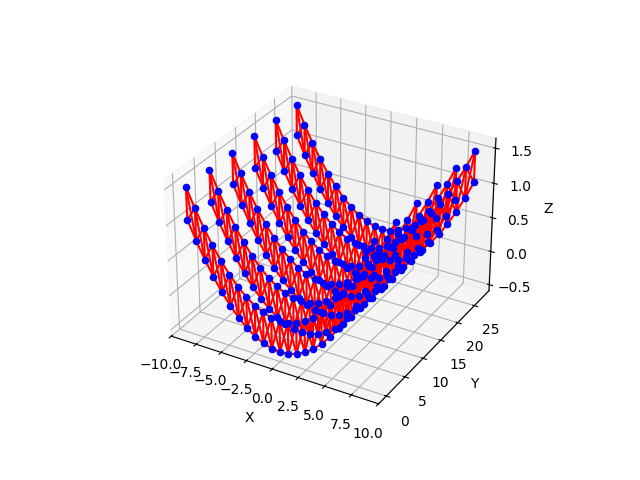
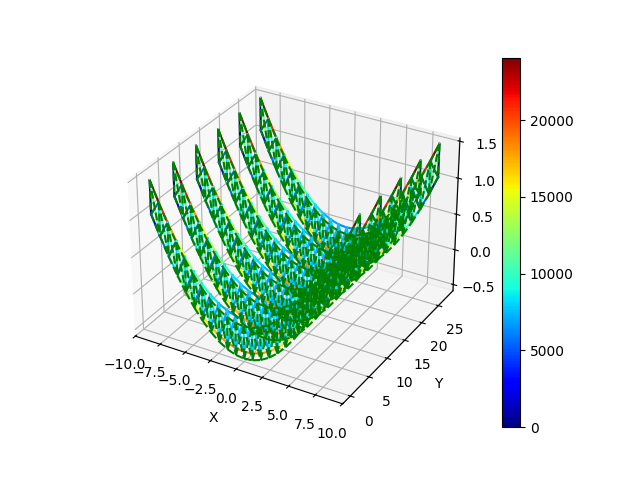
feat: Add deformed shape and diagrams to visualization

Changed region(s): [[0.1562, 0.0938, 0.9062, 0.9375]]

diff --git a/opensees_3d_analysis/visualization/plot.py b/opensees_3d_analysis/visualization/plot.py
@@ -1,8 +1,10 @@
 import matplotlib.pyplot as plt
 from mpl_toolkits.mplot3d import Axes3D
 from input.data import get_arch_truss_data
+import openseespy.opensees as ops
+import numpy as np
 
-def plot_model():
+def plot_model(show_deformed=False, scale_factor=1.0):
     """
     Plots the 3D model of the structure.
     """
@@ -13,12 +15,17 @@ def plot_model():
     fig = plt.figure()
     ax = fig.add_subplot(111, projection='3d')
 
-    # Plot nodes
-    for node in nodes:
-        ax.scatter(node["coordinates"][0], node["coordinates"][1], node["coordinates"][2], c='b', marker='o')
+    # Get element forces for color-coding
+    forces = []
+    for element in elements:
+        force = ops.eleForce(element["id"])
+        forces.append(np.linalg.norm(force))
+
+    norm = plt.Normalize(min(forces), max(forces))
+    cmap = plt.get_cmap('jet')
 
     # Plot elements
-    for element in elements:
+    for i, element in enumerate(elements):
         node1_id = element["nodes"][0]
         node2_id = element["nodes"][1]
 
@@ -28,10 +35,80 @@ def plot_model():
         if node1 and node2:
             ax.plot([node1["coordinates"][0], node2["coordinates"][0]],
                     [node1["coordinates"][1], node2["coordinates"][1]],
-                    [node1["coordinates"][2], node2["coordinates"][2]], 'r')
+                    [node1["coordinates"][2], node2["coordinates"][2]],
+                    color=cmap(norm(forces[i])))
+
+    # Plot deformed shape
+    if show_deformed:
+        for element in elements:
+            node1_id = element["nodes"][0]
+            node2_id = element["nodes"][1]
+
+            node1 = next((n for n in nodes if n["id"] == node1_id), None)
+            node2 = next((n for n in nodes if n["id"] == node2_id), None)
+
+            if node1 and node2:
+                disp1 = ops.nodeDisp(node1_id)
+                disp2 = ops.nodeDisp(node2_id)
+
+                ax.plot([node1["coordinates"][0] + disp1[0] * scale_factor, node2["coordinates"][0] + disp2[0] * scale_factor],
+                        [node1["coordinates"][1] + disp1[1] * scale_factor, node2["coordinates"][1] + disp2[1] * scale_factor],
+                        [node1["coordinates"][2] + disp1[2] * scale_factor, node2["coordinates"][2] + disp2[2] * scale_factor], 'g--')
 
     ax.set_xlabel('X')
     ax.set_ylabel('Y')
     ax.set_zlabel('Z')
 
+    fig.colorbar(plt.cm.ScalarMappable(norm=norm, cmap=cmap), ax=ax)
+
     plt.savefig('model.png')
+
+def plot_diagrams():
+    """
+    Plots the shear and moment diagrams for the upper chord of the first truss.
+    """
+    input_data = get_arch_truss_data()
+    elements = input_data["elements"]
+    nodes = input_data["nodes"]
+    num_sections = 22
+
+    # Get upper chord elements of the first truss
+    upper_chord_elements = []
+    for i in range(num_sections):
+        element_id = 2 * i + 1
+        upper_chord_elements.append(element_id)
+
+    # Get forces
+    shear_forces = []
+    moment_forces = []
+    x_coords = []
+
+    for element_id in upper_chord_elements:
+        forces = ops.eleForce(element_id)
+        shear_forces.append(forces[2])
+        moment_forces.append(forces[4])
+
+        element = next((e for e in elements if e["id"] == element_id), None)
+        if element:
+            node1_id = element["nodes"][0]
+            node1 = next((n for n in nodes if n["id"] == node1_id), None)
+            if node1:
+                x_coords.append(node1["coordinates"][0])
+
+    # Plot shear diagram
+    plt.figure()
+    plt.plot(x_coords, shear_forces, 'b-')
+    plt.xlabel('X coordinate (m)')
+    plt.ylabel('Shear Force (N)')
+    plt.title('Shear Force Diagram - Upper Chord')
+    plt.grid(True)
+    plt.savefig('shear_diagram.png')
+
+    # Plot moment diagram
+    plt.figure()
+    plt.plot(x_coords, moment_forces, 'r-')
+    plt.xlabel('X coordinate (m)')
+    plt.ylabel('Moment (Nm)')
+    plt.title('Moment Diagram - Upper Chord')
+    plt.grid(True)
+    plt.savefig('moment_diagram.png')

diff --git a/opensees_3d_analysis/main.py b/opensees_3d_analysis/main.py
@@ -19,7 +19,11 @@ def main():
     print("Frequencies (Hz):", frequencies)
 
     print("\nPlotting the model...")
-    plot_model()
+    plot_model(show_deformed=True, scale_factor=100)
+
+    print("\nPlotting diagrams...")
+    from visualization.plot import plot_diagrams
+    plot_diagrams()
 
 
 if __name__ == "__main__":

diff --git a/opensees_3d_analysis/README.md b/opensees_3d_analysis/README.md
@@ -10,7 +10,7 @@ This is a Python application that uses OpenSees to perform structural analysis o
 - `model/generate.py`: Generates the OpenSees model from the input data.
 - `analysis/run.py`: Runs the structural analysis.
 - `results/extract.py`: Extracts and prints the results.
-- `visualization/plot.py`: Generates a 3D plot of the structure.
+- `visualization/plot.py`: Generates a 3D plot of the structure and diagrams.
 - `requirements.txt`: The required Python packages.
 
 ## How to use
@@ -26,7 +26,10 @@ This is a Python application that uses OpenSees to perform structural analysis o
     python3 main.py
     ```
 4.  **View the results:**
-    The results will be printed to the console, and a 3D plot of the model will be saved as `model.png`.
+    The results will be printed to the console. The following image files will be generated in the project directory:
+    - `model.png`: A 3D plot of the structure, including the deformed shape and color-coded elements based on axial force.
+    - `shear_diagram.png`: A shear force diagram for the upper chord of the first truss.
+    - `moment_diagram.png`: A moment diagram for the upper chord of the first truss.
 
 ## Example
 
